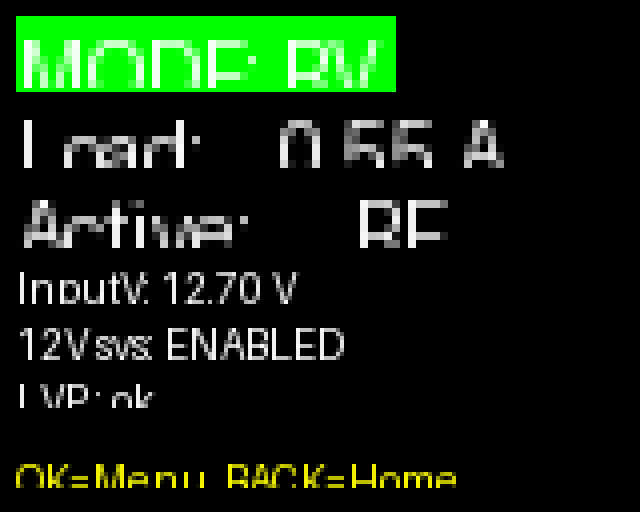
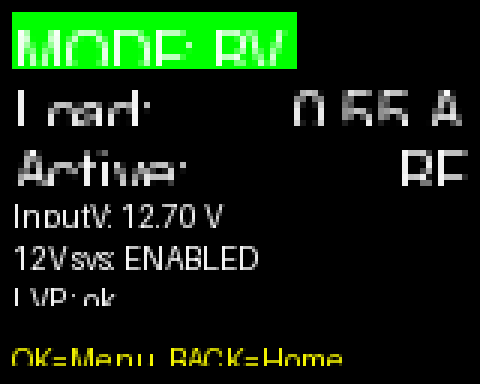
Docs: prevent cutoff by right-aligning dynamic values (Load/Active) at 160px; keep crisp NEAREST scaling

diff --git a/scripts/generate_screens.py b/scripts/generate_screens.py
@@ -44,6 +44,18 @@ def draw_text(img: Image.Image, draw: ImageDraw.ImageDraw, x: int, y: int, text:
     img.paste(sprite, (x, y), sprite)
 
 
+def measure_text(text: str, size: int = 1):
+    """Return (width, height) for given text at scaling factor using the base bitmap font."""
+    if not text:
+        return (0, 0)
+    tmp = Image.new('L', (1, 1))
+    td = ImageDraw.Draw(tmp)
+    bbox = td.textbbox((0, 0), text, font=BASE_FONT)
+    w = max(1, bbox[2] - bbox[0]) * max(1, size)
+    h = max(1, bbox[3] - bbox[1]) * max(1, size)
+    return (w, h)
+
+
 def save(img: Image.Image, name: str, scale: int = 1):
     p = out_dir / f"{name}.png"
     if scale and scale > 1:
@@ -75,13 +87,16 @@ def screen_home(mode: str = 'HD', load_a: float = 0.00, active: str = 'RF', src_
 
     # Load
     draw_text(img, d, 4, yLoad, "Load:", size=2)
-    draw_text(img, d, 70, yLoad, f"{load_a:4.2f} A", size=2)
+    load_val = f"{load_a:4.2f} A"
+    lv_w, _ = measure_text(load_val, size=2)
+    draw_text(img, d, max(4, W - 4 - lv_w), yLoad, load_val, size=2)
 
     # Active
     draw_text(img, d, 4, yActive, "Active:", size=2)
     # try to keep within width (160)
     label = active
-    draw_text(img, d, 88, yActive, label, size=2)
+    av_w, _ = measure_text(label, size=2)
+    draw_text(img, d, max(4, W - 4 - av_w), yActive, label, size=2)
 
     # InputV
     draw_text(img, d, 4, ySrcV, f"InputV: {src_v:4.2f} V", size=1)
